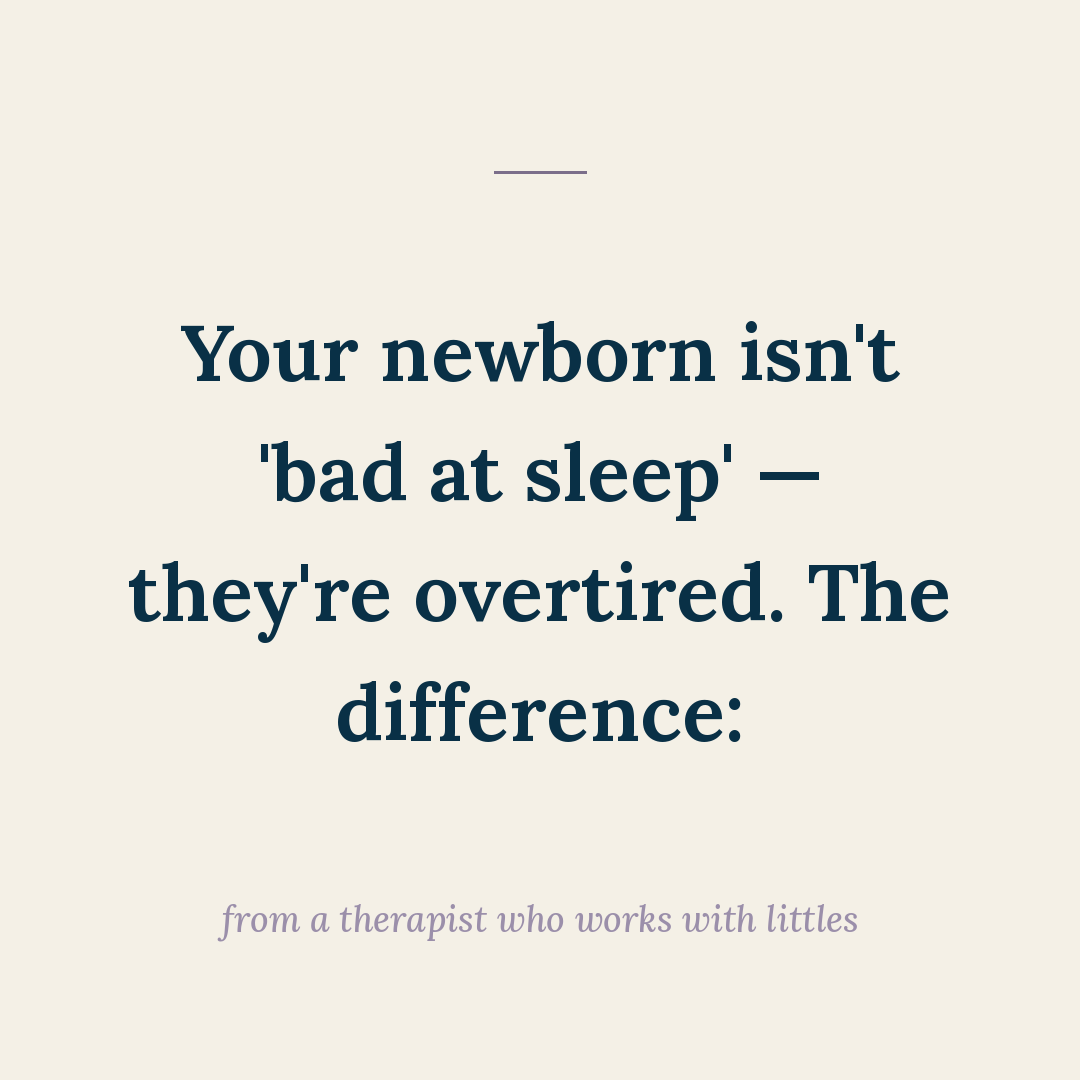
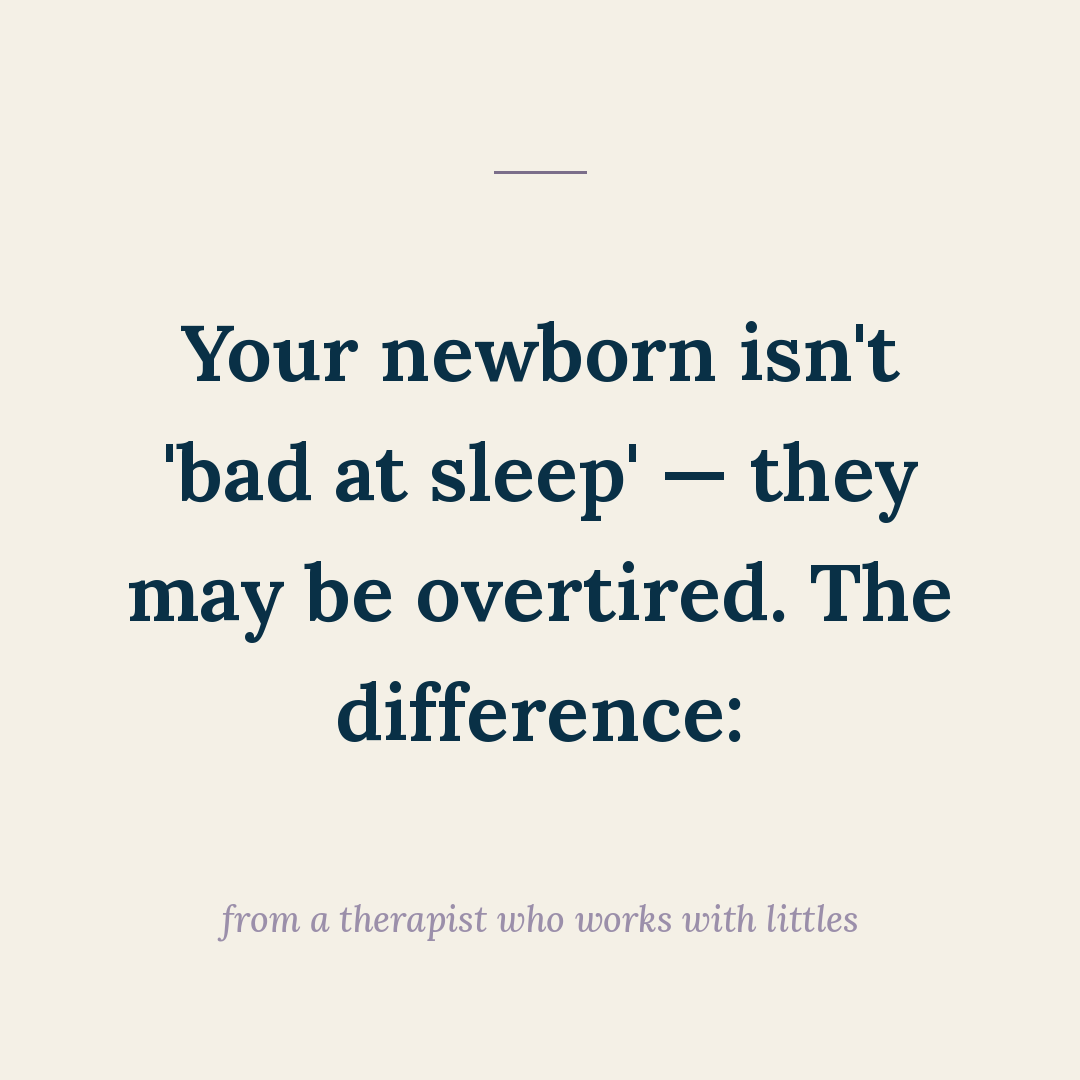
Add 21-not-bad-at-sleep-overtired (21 - Not Bad At Sleep Overtired)

diff --git a/posts/21-not-bad-at-sleep-overtired/slides.md b/posts/21-not-bad-at-sleep-overtired/slides.md
@@ -3,7 +3,7 @@
 Format: carousel · bg cream · lane Sleep · CTA Save
 
 ## Cover
-Your newborn isn't 'bad at sleep' — they're overtired. The difference:
+Your newborn isn't 'bad at sleep' — they may be overtired. The difference:
 
 ## Items
 01  Overtired newborns fight sleep harder
